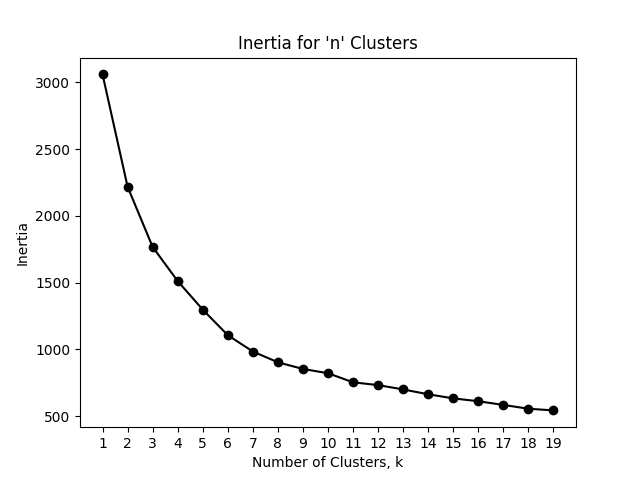
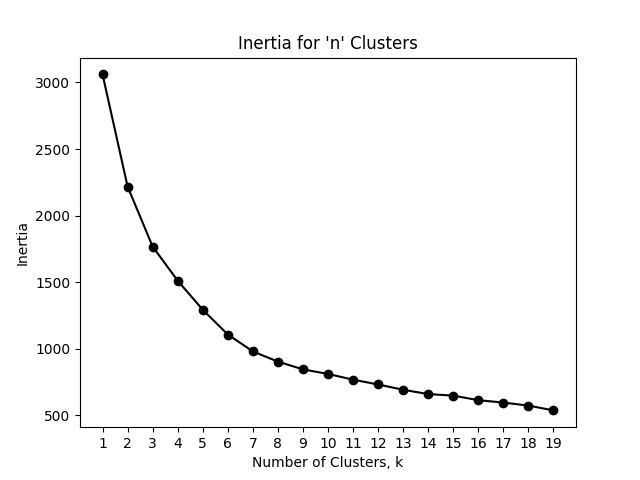
Update analysis script; Update README

diff --git a/analysis.py b/analysis.py
@@ -171,7 +171,7 @@ cluster_amount = 4
 #TODO make this 7 clusters to match curve elbow and number of different soil types
 model = KMeans(n_clusters=cluster_amount)
 #TODO check this slicing grabs first 5 pca components
-clusters = model.fit(X[:,0:5])
+clusters = model.fit(X[:])
 y_pred = clusters.labels_
 
 # Measuring KMeans Performance
@@ -200,6 +200,7 @@ legend1 = ax.legend(handles, unique_labels,loc="lower left", title="Classes")
 ax.add_artist(legend1)
 centroids = clusters.cluster_centers_
 plt.scatter(centroids[:,0], centroids[:,1], zorder=10, marker='x', c='r', linewidths=2)
+#TODO: plot also the kmeans fit data on as different symbol maybe?
 plt.xlabel("PC-1")
 plt.ylabel("PC-2")
 plt.title("First 2 Principal Components Clustered with KMeans")

diff --git a/README.md b/README.md
@@ -11,7 +11,14 @@ import pandas as pd
 import matplotlib.pyplot as plt
 import seaborn as sns
 
-from sklearn.decomposition import PCA 
+from sklearn import preprocessing
+from sklearn.decomposition import PCA
+from sklearn.cluster import KMeans
+
+from sklearn.metrics.cluster import homogeneity_score
+from sklearn.metrics.cluster import completeness_score
+from sklearn.metrics.cluster import v_measure_score
+
 ```
 
 The analysis can be reproduced by downloading the soil dataset csv file and running `python analysis.py`.
@@ -267,21 +274,72 @@ This represents a simplified interpretation of PCA components.
 K-Means is an exact solution to linear problem when looked at in relation to PCA....etc
 
 K Means clustering...
+In this scenario the clustering of the data is performed to analysis if relationships exist between the various ecosystems of Van Cortlandt Park
+and the underlying soil composition.
+As a result, the generalness of the model and clustering is not generalized to other locations, but rather is provided as a relative comparision of each of the four regions.
 
+The inertia of centroids between clusters is a measure of the root square mean, which ideally is minimized between each independant cluster.
+Although we assume there are four regions under consideration for the majority of this study it is shown in the Figure X below that the ideal number of clusters is around seven when using
+the raw dataset and features.
+As there are 7 different soil types spread out accross the various ecological regions, it is possible that the characteristics of these soil types outweigh any ecological factors.
+This number of clusters is determined by observing where the inertia plot turns at the "elbow" and further clusters do not drastically improve performance of the clustering mechanism.
+This inertia clustering relationship is shown in Figure X below
 
 ![All Data KMeans Inertia](results/kmeans-all-data-inertia.png)
+
+There are a variety of metrics that can be used for measuring the performance of clustering algorithms.
+KMeans clustering commonly uses the metrics of completeness, homogeneity and V score to gauge its performance.
+The completeness of a cluster is determined by the how many members of a given class are placed in the same cluster.
+The homogeneity of a cluster means that all observations with the same class label are placed in the same cluster.
+An overall relationship between the completeness and homogeneity of a cluster can be determined using a combination of the two measurements weighted by a beta factor and is known as the V score.
+
+```
+v = (1 + beta) * homogeneity * completeness
+     / (beta * homogeneity + completeness)
+```
+
+Both homogeneity and completeness range from 0 to 1, with 1 being the ideal.
+The results for running KMeans clustering on the raw dataset with n=4 clusters are
 
 Homogeneity Score: 0.265 \
 Completeness Score: 0.290 \
 V Score: 0.277 
 
+As the dimension of the feature set is larger than three it is difficult to visualize the result of clustering.
+Overall the performance of the KMeans clustering is not perfect as the V score shows a value less than one.
+
 ##### PCA KMeans
+The first five principal components were analyzed as they comprise 89.22% of the variance for the entire dataset.
+The first two components make up 32.23% and 26.23% and can be graphed in a 2 dimensional scatter plot.
+
+TODO make this 3d plot to account for more variance...
+
+Again inertia was calculated and it is shown that using PCA the ideal number of clusters is still seven.
+
 ![PCA KMeans Inertia](results/pca-kmeans-inertia.png)
+
+The scatter plot is created of the first two principal components...
+
 ![PCA KMeans Clustering](results/pca-kmeans-scatter-plot.png)
 
-PCA KMeans Performance \
+
+The performance of n=4 clusters using PCA is also not very accurate based off of the V score, which reflects the underlying homogeneity and completeness of the classification.
+
+PCA KMeans Performance (5 components) \
 Homogeneity Score: 0.258 \
 Completeness Score: 0.304 \
 V Score: 0.279
 
+It is shown that the approximately the same amount of performance for KMeans clustering can be obtained using only the first 5 components will getting around the same
+homogeneity, completeness and V score as the complete dataset.
+This is significant in that it shows most of the information is preserved in PCA while greatly reducing the amount of data required to perform the analysis.
+Increases the number of Principal components does marignally increase the performance of the KMeans clustering, but at the expense of visualizing the results and decreased computational performance.
+The results of KMeans clustering using all PCA components is shown below
+
+Again with n=4 clusters produces slightly better results when using all PCA components.
+
+PCA KMeans Performance (All Components) \
+Homogeneity Score: 0.274 \
+Completeness Score: 0.298 \
+V Score: 0.285
 
